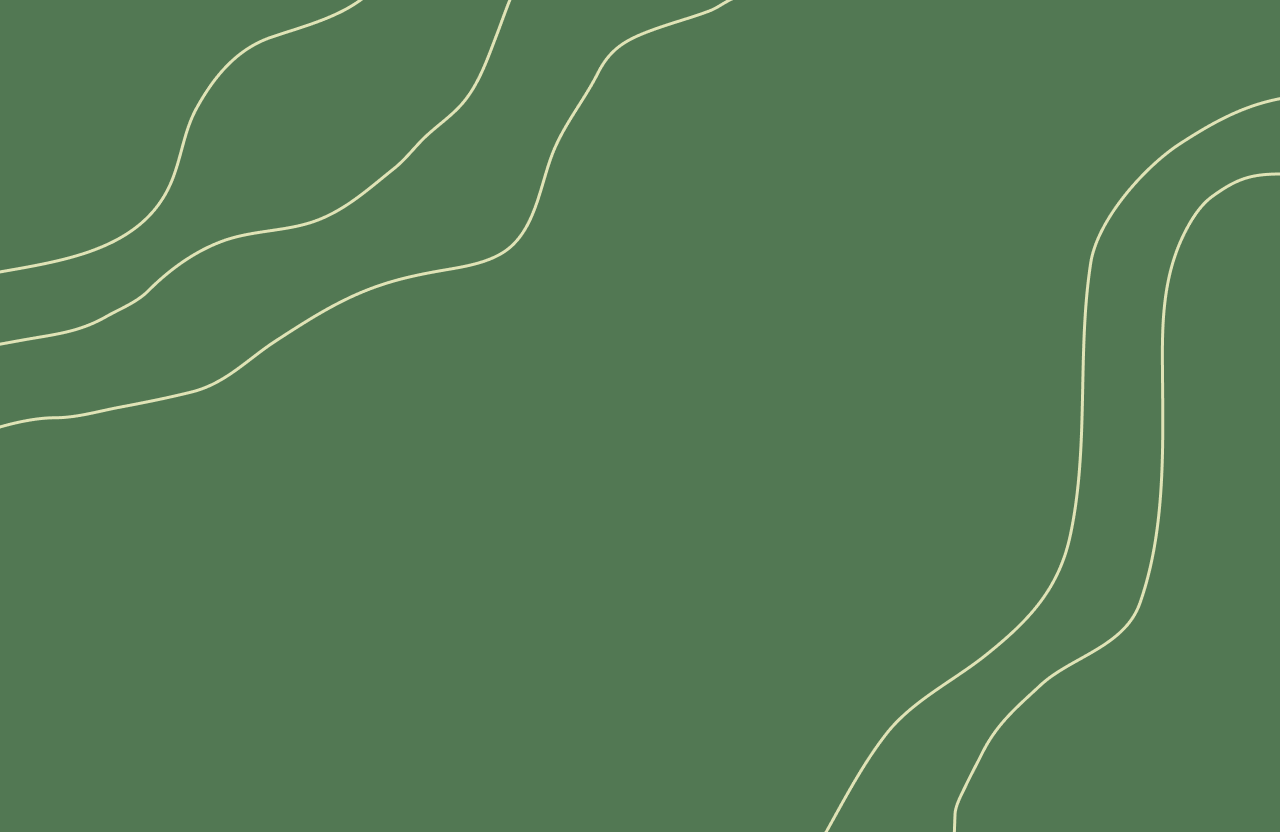
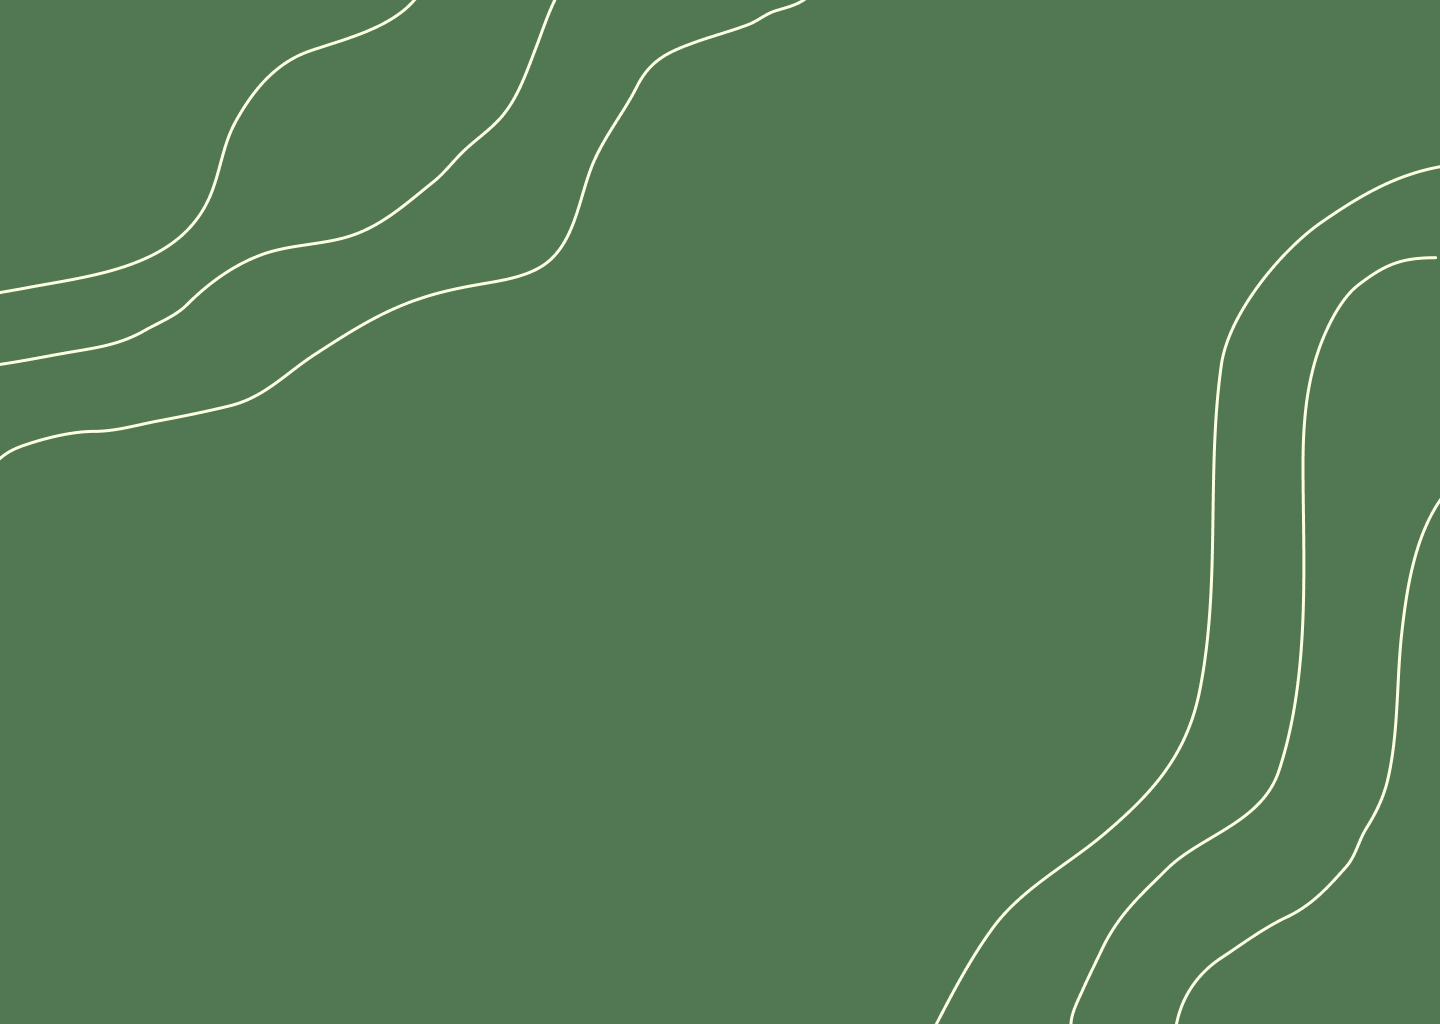
resizing

diff --git a/Site Funcional/pagina-inicial/Site.html b/Site Funcional/pagina-inicial/Site.html
@@ -71,26 +71,32 @@
                     <div class="Box">
                         <div class="Modelo">
                             <img class="ImagemModelo" src="../ImagensPlanoDeFundo/caprinosede.jpeg" alt="">
-                            <p class="">
-                                Durante esta fase inicial, nosso sistema de monitoramento climático identifica condições de temperatura que podem causar desconforto às cabras, indicando sinais de sede. Os sensores instalados nos locais de criação captam dados em tempo real, permitindo uma resposta rápida às mudanças nas condições ambientais..
-                            </p>
+                            <div class="textomodelo">
+                                <p>
+                                    Durante esta fase inicial, nosso sistema de monitoramento climático identifica condições de temperatura que podem causar desconforto às cabras, indicando sinais de sede. Os sensores instalados nos locais de criação captam dados em tempo real, permitindo uma resposta rápida às mudanças nas condições ambientais..
+                                </p>
+                            </div>
                         </div>
                     </div>
                     
                     <div class="Box">
                         <div class="Modelo">
                             <img class="ImagemModelo" src="../ImagensPlanoDeFundo/caprinocapril.jpeg" alt="">
-                            <p class="">
-                                Durante esta fase crucial, nosso sistema de monitoramento capta dados detalhados sobre o ambiente dos capris, incluindo a temperatura. Ao detectar desvios da temperatura ideal para o conforto das cabras, um alerta é automaticamente gerado para o usuário. Esse alerta permite que o criador intervenha prontamente, ajustando as condições ambientais para garantir o bem-estar e a adaptação ideais do rebanho. Com esse sistema de alerta, o criador pode evitar riscos associados a temperaturas extremas, garantindo um ambiente propício para o crescimento saudável e a produtividade das cabras..
-                            </p>
+                            <div class="textomodelo">
+                                <p>
+                                    Durante esta fase crucial, nosso sistema de monitoramento capta dados detalhados sobre o ambiente dos capris, incluindo a temperatura. Ao detectar desvios da temperatura ideal para o conforto das cabras, um alerta é automaticamente gerado para o usuário. Esse alerta permite que o criador intervenha prontamente, ajustando as condições ambientais para garantir o bem-estar e a adaptação ideais do rebanho. Com esse sistema de alerta, o criador pode evitar riscos associados a temperaturas extremas, garantindo um ambiente propício para o crescimento saudável e a produtividade das cabras..
+                                </p>
+                            </div>
                         </div>
                     </div>
                     <div class="Box">
                         <div class="Modelo">
                             <img class="ImagemModelo" src="../ImagensPlanoDeFundo/caprinosvivendo.jpeg" alt="">
-                            <p class="">
-                                Nesta fase, nosso sistema de monitoramento contínuo alerta sobre variações na temperatura e outros riscos à saúde das cabras. Com essas informações, o criador pode agir prontamente, implementando medidas proativas para minimizar os riscos e garantir um ambiente saudável e seguro para o rebanho.
-                            </p>
+                            <div class="textomodelo">
+                                <p>
+                                    Nesta fase, nosso sistema de monitoramento contínuo alerta sobre variações na temperatura e outros riscos à saúde das cabras. Com essas informações, o criador pode agir prontamente, implementando medidas proativas para minimizar os riscos e garantir um ambiente saudável e seguro para o rebanho.
+                                </p>
+                            </div>
                         </div>
                     </div>
                 </div>
@@ -138,7 +144,7 @@
                     <textarea id="input3" class="InputTexto" name="" id="input3" cols="180" rows="130" placeholder="mensagem"></textarea>
                 </div>
                 <div class="Iframe">
-                    <iframe class="Map" src="https://www.google.com/maps/embed?pb=!1m18!1m12!1m3!1d3657.288160205888!2d-46.6616751!3d-23.558092!2m3!1f0!2f0!3f0!3m2!1i1024!2i768!4f13.1!3m3!1m2!1s0x94ce59d2a5270055%3A0x3c7ea4f4c7d51fb6!2sRua%20Haddock%20Lobo%2C%20595%20-%20Cerqueira%20C%C3%A9sar%2C%20S%C3%A3o%20Paulo%20-%20SP%2C%2001414-001!5e0!3m2!1spt-BR!2sbr!4v1712880078959!5m2!1spt-BR!2sbr" width="700" height="600" style="border:0;" allowfullscreen="" loading="lazy" referrerpolicy="no-referrer-when-downgrade"></iframe>
+                    <iframe class="Map" src="https://www.google.com/maps/embed?pb=!1m18!1m12!1m3!1d3657.288160205888!2d-46.6616751!3d-23.558092!2m3!1f0!2f0!3f0!3m2!1i1024!2i768!4f13.1!3m3!1m2!1s0x94ce59d2a5270055%3A0x3c7ea4f4c7d51fb6!2sRua%20Haddock%20Lobo%2C%20595%20-%20Cerqueira%20C%C3%A9sar%2C%20S%C3%A3o%20Paulo%20-%20SP%2C%2001414-001!5e0!3m2!1spt-BR!2sbr!4v1712880078959!5m2!1spt-BR!2sbr" width="700" height="500" style="border:0;" allowfullscreen="" loading="lazy" referrerpolicy="no-referrer-when-downgrade"></iframe>
                 </div>
             </div>
         </div>

diff --git a/Site Funcional/pagina-inicial/styleCopia.css b/Site Funcional/pagina-inicial/styleCopia.css
@@ -10,6 +10,7 @@ body {
 
 ::-webkit-scrollbar {
     width: 10px; /* largura do scroll */
+    height: 10px;
 }
 ::-webkit-scrollbar-track {
     background: #527853; /* cor do fundo do track */
@@ -33,7 +34,7 @@ body {
     display: flex;
     text-align: center;
     width: 100%;
-    height: 100px ;
+    height: 70px ;
     margin: 0;
     padding: 0;
     text-decoration: none;
@@ -73,7 +74,7 @@ li{
 }
 
 .container{
-    height: 100px;
+    height: 70px;
     width: 100%;
     align-items: center;
     display: flex;
@@ -92,20 +93,19 @@ li{
     height: 800px;
 }
 .banner1{
-    /* background-image: url("../ImagensPlanoDeFundo/SobreNos.png"); */
-    background-color: #FCFFE0;
+    background-image: url(../ImagensPlanoDeFundo/sobre.png);
     background-repeat: no-repeat;
     height: 800px;
     color: rgb(0, 0, 0);
 }
 .banner2{
-    background-image: url("../ImagensPlanoDeFundo/ModeloDeNegocio.png");
+    background-image: url(../ImagensPlanoDeFundo/modelo.png);
     background-repeat: no-repeat;
     height: 800px;
     color: rgb(0, 0, 0);
 }
 .Chefe{
-    background-image: url("../ImagensPlanoDeFundo/TeladeContato.png");
+    background-image: url(../ImagensPlanoDeFundo/início.png);
     background-repeat: no-repeat;
     height: 800px;
     color: rgb(0, 0, 0);
@@ -122,9 +122,12 @@ li{
     justify-content: column;
     align-items: center;
      flex-direction: row; 
-     font-size: large;
-     
-    }
+     font-size: large; 
+}
+
+.banner1 .container1 .ContainerNeto {
+    background-color: #FCFFE0;
+}
     
     .banner2 .container2{
         /* justify-content: column; */
@@ -208,7 +211,7 @@ li{
 .ContainerNeto{
     display: flex;
     width: 100%;
-    /* margin-left: 100px; */
+    margin-left: 100px; 
     align-items: center;
     justify-content: center;
     text-align: center;
@@ -229,22 +232,24 @@ li{
     display: flex;
     justify-content: space-around;
     align-items: center;
-    width: 430px;
+    width: 445px;
     height: 500px;
     font-size: 17px;
 }
-.Modelo{
-    /* flex-direction: column; */
-    /* justify-content: center; */
+
+
+.ContainerMaior1 .banner2 .container2 .ContainerNeto2 .Box .Modelo{
+    padding: 10px;
     width: 400px;
     height: 550px;
-    background-color: #e0e3b6;
+    background-color: #FCFFE0;
 }
 
 .TituloModelo{
     justify-content: center;
     color: #FFF;
-    margin-bottom: 80px;
+    margin-top: 50px;
+    margin-bottom: 70px;
 font-size: 40px;
 font-style: normal;
 font-weight: 500;
@@ -359,6 +364,11 @@ html {
     justify-content: space-around
     
 }
+
+.Chefe .ContainerS h1{
+    color: #ffffff;
+}
+
 .Chefe .ContainerS #input3{
     margin-top: 20px;
     width: 450px;
